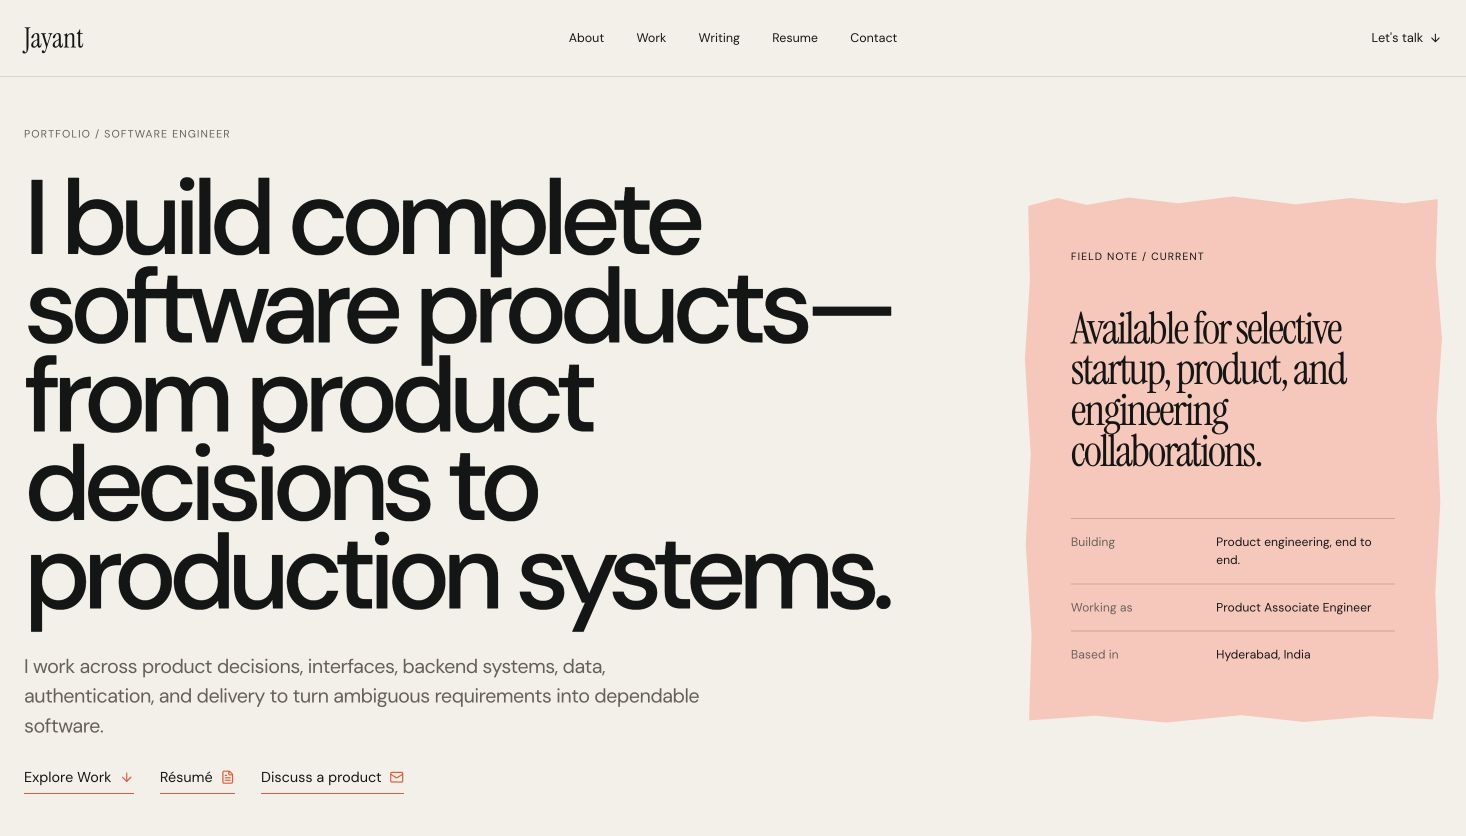
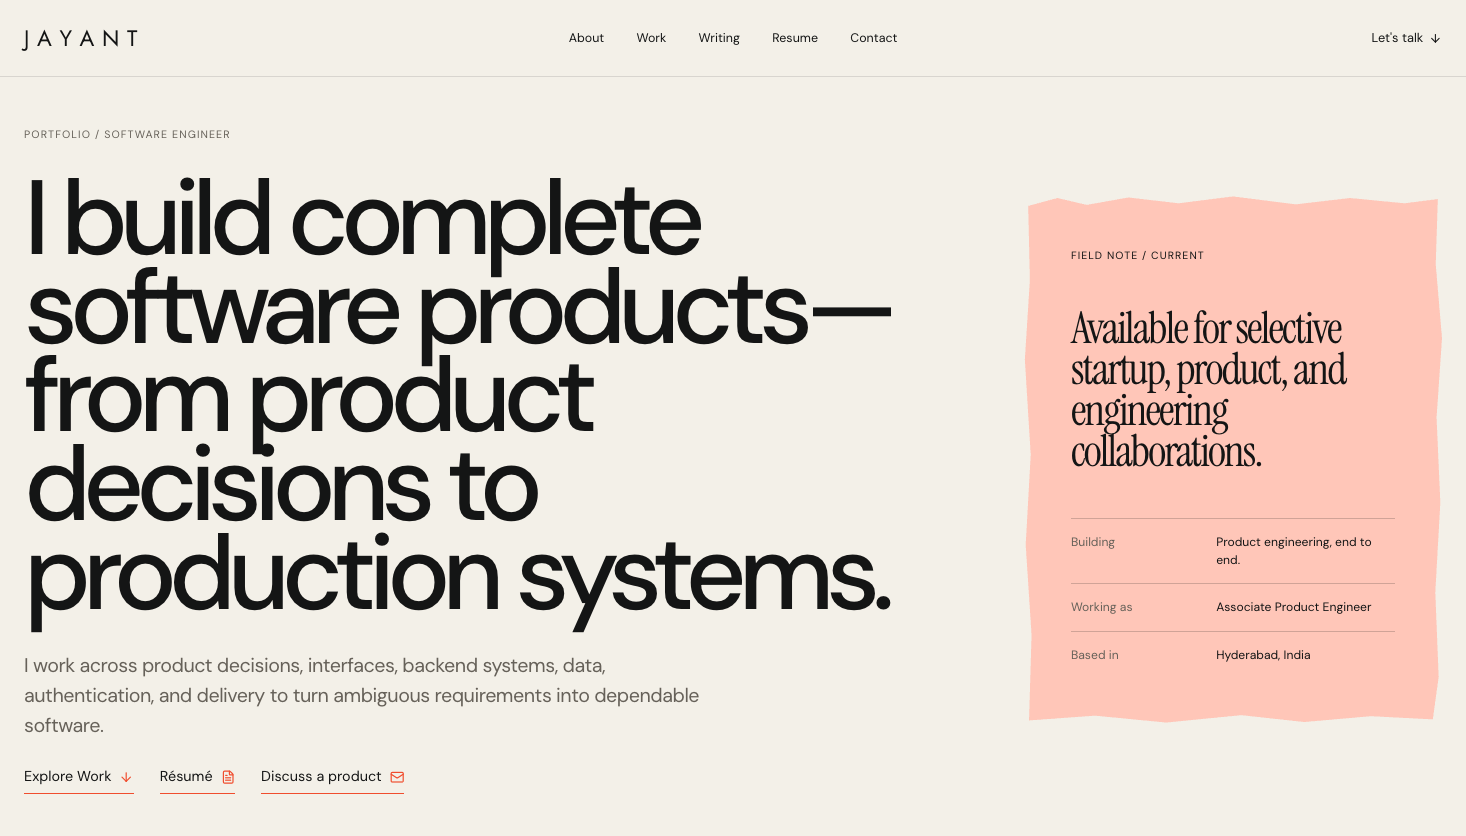
fix(seo): use app screenshots for link previews
Serve Auth landing metadata without redirecting anonymous preview crawlers, while preserving noindex policies for security-sensitive routes. Centralize 1200x630 screenshot previews for Portfolio, Studio, Admin, and Auth.

diff --git a/apps/auth/src/app/layout.tsx b/apps/auth/src/app/layout.tsx
@@ -3,11 +3,17 @@ import "./globals.css";
 import type { Metadata, Viewport } from "next";
 import { IBM_Plex_Mono, Instrument_Serif, Manrope } from "next/font/google";
 
-import { APP_BRANDS, BRAND_ASSET_PATHS, PERSON_BRAND } from "@repo/brand";
+import {
+  APP_BRANDS,
+  APP_SOCIAL_PREVIEW_IMAGES,
+  BRAND_ASSET_PATHS,
+  PERSON_BRAND,
+} from "@repo/brand";
 import { Toaster } from "@repo/ui/sonner";
 import { ThemeProvider } from "@repo/ui/theme-provider";
 
 const AUTH_BRAND = APP_BRANDS.auth;
+const AUTH_PREVIEW = APP_SOCIAL_PREVIEW_IMAGES.auth;
 
 const manrope = Manrope({
   subsets: ["latin"],
@@ -40,28 +46,21 @@ export const metadata: Metadata = {
   authors: [{ name: PERSON_BRAND.fullName, url: PERSON_BRAND.canonicalUrl }],
   creator: PERSON_BRAND.fullName,
   keywords: ["secure sign in", "account security", "Jayant"],
-  alternates: { canonical: "/welcome" },
+  alternates: { canonical: "/" },
   openGraph: {
     type: "website",
     locale: "en_US",
-    url: "/welcome",
+    url: "/",
     siteName: PERSON_BRAND.fullName,
     title: AUTH_BRAND.defaultTitle,
     description: AUTH_BRAND.description,
-    images: [
-      {
-        url: "/assets/auth-welcome-art.png",
-        width: 1122,
-        height: 1402,
-        alt: "Abstract folded paper sculpture on a dark architectural plinth",
-      },
-    ],
+    images: [AUTH_PREVIEW],
   },
   twitter: {
     card: "summary_large_image",
     title: AUTH_BRAND.defaultTitle,
     description: AUTH_BRAND.description,
-    images: ["/assets/auth-welcome-art.png"],
+    images: [AUTH_PREVIEW.url],
   },
   icons: {
     icon: [

diff --git a/apps/admin/src/app/layout.tsx b/apps/admin/src/app/layout.tsx
@@ -1,11 +1,17 @@
 import "./globals.css";
 import type { Metadata } from "next";
 import { IBM_Plex_Mono, Manrope } from "next/font/google";
-import { APP_BRANDS, BRAND_ASSET_PATHS } from "@repo/brand";
+import {
+  APP_BRANDS,
+  APP_SOCIAL_PREVIEW_IMAGES,
+  BRAND_ASSET_PATHS,
+  PERSON_BRAND,
+} from "@repo/brand";
 import { ThemeProvider } from "@repo/ui/theme-provider";
 import { Toaster } from "@repo/ui/sonner";
 
 const ADMIN_BRAND = APP_BRANDS.admin;
+const ADMIN_PREVIEW = APP_SOCIAL_PREVIEW_IMAGES.admin;
 
 const manrope = Manrope({
   subsets: ["latin"],
@@ -21,11 +27,31 @@ const ibmPlexMono = IBM_Plex_Mono({
 });
 
 export const metadata: Metadata = {
+  metadataBase: new URL(ADMIN_BRAND.canonicalUrl),
   title: {
     default: ADMIN_BRAND.defaultTitle,
     template: ADMIN_BRAND.titleTemplate,
   },
   description: ADMIN_BRAND.description,
+  applicationName: ADMIN_BRAND.publicName,
+  authors: [{ name: PERSON_BRAND.fullName, url: PERSON_BRAND.canonicalUrl }],
+  creator: PERSON_BRAND.fullName,
+  alternates: { canonical: "/" },
+  openGraph: {
+    type: "website",
+    locale: "en_US",
+    url: "/",
+    siteName: PERSON_BRAND.fullName,
+    title: ADMIN_BRAND.defaultTitle,
+    description: ADMIN_BRAND.description,
+    images: [ADMIN_PREVIEW],
+  },
+  twitter: {
+    card: "summary_large_image",
+    title: ADMIN_BRAND.defaultTitle,
+    description: ADMIN_BRAND.description,
+    images: [ADMIN_PREVIEW.url],
+  },
   robots: {
     index: false,
     follow: false,

diff --git a/packages/brand/src/index.ts b/packages/brand/src/index.ts
@@ -46,6 +46,39 @@ export const APP_BRANDS = {
   },
 } as const;
 
+const SOCIAL_PREVIEW_VERSION = "20260727";
+
+export const APP_SOCIAL_PREVIEW_IMAGES = {
+  portfolio: {
+    url: `${PERSON_BRAND.canonicalUrl}/images/social/portfolio-preview.jpg?v=${SOCIAL_PREVIEW_VERSION}`,
+    width: 1200,
+    height: 630,
+    type: "image/jpeg",
+    alt: `${PERSON_BRAND.fullName}'s Software Engineer portfolio`,
+  },
+  studio: {
+    url: `${PERSON_BRAND.canonicalUrl}/images/social/studio-preview.jpg?v=${SOCIAL_PREVIEW_VERSION}`,
+    width: 1200,
+    height: 630,
+    type: "image/jpeg",
+    alt: `Studio apps, tools, and experiments by ${PERSON_BRAND.fullName}`,
+  },
+  admin: {
+    url: `${PERSON_BRAND.canonicalUrl}/images/social/admin-preview.jpg?v=${SOCIAL_PREVIEW_VERSION}`,
+    width: 1200,
+    height: 630,
+    type: "image/jpeg",
+    alt: `Admin content management system by ${PERSON_BRAND.fullName}`,
+  },
+  auth: {
+    url: `${PERSON_BRAND.canonicalUrl}/images/social/auth-preview.jpg?v=${SOCIAL_PREVIEW_VERSION}`,
+    width: 1200,
+    height: 630,
+    type: "image/jpeg",
+    alt: `Auth account security application by ${PERSON_BRAND.fullName}`,
+  },
+} as const;
+
 export type AppBrandId = keyof typeof APP_BRANDS;
 export type AppBrand = (typeof APP_BRANDS)[AppBrandId];
 

diff --git a/apps/studio/src/lib/seo/config.ts b/apps/studio/src/lib/seo/config.ts
@@ -1,6 +1,10 @@
 import type { Metadata } from "next";
 
-import { APP_BRANDS, PERSON_BRAND } from "@repo/brand";
+import {
+  APP_BRANDS,
+  APP_SOCIAL_PREVIEW_IMAGES,
+  PERSON_BRAND,
+} from "@repo/brand";
 import {
   buildPublicPageMetadata as buildSharedPageMetadata,
   isCanonicalApplicationHost,
@@ -19,7 +23,8 @@ export const SITE_NAME = STUDIO_BRAND.publicName;
 export const SITE_TITLE = STUDIO_BRAND.defaultTitle;
 export const SITE_TITLE_TEMPLATE = STUDIO_BRAND.titleTemplate;
 export const SITE_DESCRIPTION = STUDIO_BRAND.description;
-export const DEFAULT_OG_IMAGE = `${SITE_URL}/opengraph-image?v=6`;
+export const DEFAULT_OG_IMAGE = APP_SOCIAL_PREVIEW_IMAGES.studio.url;
+export const DEFAULT_OG_IMAGE_METADATA = APP_SOCIAL_PREVIEW_IMAGES.studio;
 export const LAST_SIGNIFICANT_UPDATE = "2026-07-17T00:00:00.000Z";
 
 const INDEXABLE_EXACT_PATHS = ["/", "/terms-conditions"] as const;
@@ -66,9 +71,9 @@ export function buildPublicPageMetadata({
     pathname,
     image: DEFAULT_OG_IMAGE,
     imageMetadata: {
-      width: 1200,
-      height: 630,
-      type: "image/png",
+      width: DEFAULT_OG_IMAGE_METADATA.width,
+      height: DEFAULT_OG_IMAGE_METADATA.height,
+      type: DEFAULT_OG_IMAGE_METADATA.type,
     },
   });
 }

diff --git a/apps/portfolio/src/lib/seo/config.ts b/apps/portfolio/src/lib/seo/config.ts
@@ -1,6 +1,10 @@
 import type { Metadata } from "next";
 
-import { APP_BRANDS, PERSON_BRAND } from "@repo/brand";
+import {
+  APP_BRANDS,
+  APP_SOCIAL_PREVIEW_IMAGES,
+  PERSON_BRAND,
+} from "@repo/brand";
 import { applicationOrigin, isApplicationHost } from "@repo/platform";
 import { buildPublicPageMetadata as buildSharedPageMetadata } from "@repo/seo";
 
@@ -12,7 +16,8 @@ export const SITE_URL = applicationOrigin(
 export const PERSON_NAME = PERSON_BRAND.fullName;
 export const SITE_NAME = PORTFOLIO_BRAND.publicName;
 export const SITE_TITLE_TEMPLATE = PORTFOLIO_BRAND.titleTemplate;
-export const DEFAULT_OG_IMAGE = `${SITE_URL}/opengraph-image`;
+export const DEFAULT_OG_IMAGE = APP_SOCIAL_PREVIEW_IMAGES.portfolio.url;
+export const DEFAULT_OG_IMAGE_METADATA = APP_SOCIAL_PREVIEW_IMAGES.portfolio;
 export const LAST_SIGNIFICANT_UPDATE = "2026-07-24T00:00:00.000Z";
 
 export function buildPublicPageMetadata({
@@ -31,6 +36,11 @@ export function buildPublicPageMetadata({
     description,
     pathname,
     image: DEFAULT_OG_IMAGE,
+    imageMetadata: {
+      width: DEFAULT_OG_IMAGE_METADATA.width,
+      height: DEFAULT_OG_IMAGE_METADATA.height,
+      type: DEFAULT_OG_IMAGE_METADATA.type,
+    },
   });
 }
 

diff --git a/apps/auth/src/auth-contract.test.ts b/apps/auth/src/auth-contract.test.ts
@@ -171,4 +171,26 @@ describe("standalone Auth application contract", () => {
     expect(configuration).not.toContain("googletagmanager");
     expect(configuration).not.toContain("google-analytics");
   });
+
+  it("serves public landing previews without indexing security routes", () => {
+    const homePage = readFileSync(`${sourceRoot}/app/page.tsx`, "utf8");
+    const configuration = readFileSync(`${appRoot}/next.config.ts`, "utf8");
+    const robots = readFileSync(`${sourceRoot}/app/robots.ts`, "utf8");
+
+    expect(homePage).toContain('if (user) redirect("/account/security")');
+    expect(homePage).toContain("<AuthWelcomeShell>");
+    expect(homePage).toContain("<WelcomeForm");
+    expect(configuration).toContain(
+      '{ key: "X-Robots-Tag", value: "index, follow" }',
+    );
+    expect(configuration).toContain(
+      '{ source: "/", headers: publicPreviewHeaders }',
+    );
+    expect(configuration).toContain(
+      '{ source: "/welcome", headers: publicPreviewHeaders }',
+    );
+    expect(robots).toContain('allow: ["/", "/welcome"]');
+    expect(robots).toContain('"/account/"');
+    expect(robots).toContain('"/callback"');
+  });
 });

diff --git a/packages/brand/src/index.test.ts b/packages/brand/src/index.test.ts
@@ -1,6 +1,11 @@
 import { describe, expect, it } from "vitest";
 
-import { APP_BRANDS, formatAppPageTitle, PERSON_BRAND } from "./index";
+import {
+  APP_BRANDS,
+  APP_SOCIAL_PREVIEW_IMAGES,
+  formatAppPageTitle,
+  PERSON_BRAND,
+} from "./index";
 
 describe("canonical platform branding", () => {
   it("uses the full public identity in app-level metadata", () => {
@@ -41,5 +46,16 @@ describe("canonical platform branding", () => {
     expect(APP_BRANDS.auth.titleTemplate).toBe("%s | Auth");
     expect(formatAppPageTitle("studio", "Weather")).not.toContain(" by ");
     expect(formatAppPageTitle("admin", "Deployments")).not.toContain(" by ");
+  });
+
+  it("uses canonical screenshot crops for application link previews", () => {
+    for (const preview of Object.values(APP_SOCIAL_PREVIEW_IMAGES)) {
+      expect(preview.url).toMatch(
+        /^https:\/\/jayantgoyal\.com\/images\/social\/.+-preview\.jpg\?v=\d+$/,
+      );
+      expect(preview.width).toBe(1200);
+      expect(preview.height).toBe(630);
+      expect(preview.type).toBe("image/jpeg");
+    }
   });
 });

diff --git a/apps/auth/src/lib/seo/metadata.ts b/apps/auth/src/lib/seo/metadata.ts
@@ -1,0 +1,31 @@
+import type { Metadata } from "next";
+
+import { APP_BRANDS, APP_SOCIAL_PREVIEW_IMAGES } from "@repo/brand";
+
+const AUTH_BRAND = APP_BRANDS.auth;
+const AUTH_PREVIEW = APP_SOCIAL_PREVIEW_IMAGES.auth;
+
+export function buildAuthLandingMetadata(pathname: "/" | "/welcome"): Metadata {
+  const canonical = new URL(pathname, AUTH_BRAND.canonicalUrl).toString();
+
+  return {
+    title: { absolute: AUTH_BRAND.defaultTitle },
+    description: AUTH_BRAND.description,
+    alternates: { canonical },
+    openGraph: {
+      type: "website",
+      locale: "en_US",
+      url: canonical,
+      title: AUTH_BRAND.defaultTitle,
+      description: AUTH_BRAND.description,
+      images: [AUTH_PREVIEW],
+    },
+    twitter: {
+      card: "summary_large_image",
+      title: AUTH_BRAND.defaultTitle,
+      description: AUTH_BRAND.description,
+      images: [AUTH_PREVIEW.url],
+    },
+    robots: { index: true, follow: true },
+  };
+}

diff --git a/apps/auth/src/app/welcome/page.tsx b/apps/auth/src/app/welcome/page.tsx
@@ -3,12 +3,9 @@ import type { Metadata } from "next";
 import { AuthWelcomeShell } from "@/components/auth/auth-welcome-shell";
 import { WelcomeForm } from "@/components/auth/welcome-form";
 import { resolveAuthReturnTarget } from "@/lib/auth/returns";
+import { buildAuthLandingMetadata } from "@/lib/seo/metadata";
 
-export const metadata: Metadata = {
-  title: "Welcome",
-  description:
-    "Secure access to Jayant's Studio, Admin, and connected workspaces.",
-};
+export const metadata: Metadata = buildAuthLandingMetadata("/welcome");
 
 export default async function WelcomePage({
   searchParams,
@@ -19,9 +16,7 @@ export default async function WelcomePage({
   }>;
 }) {
   const params = await searchParams;
-  const returnTo = resolveAuthReturnTarget(
-    params.return_to ?? params.redirect,
-  );
+  const returnTo = resolveAuthReturnTarget(params.return_to ?? params.redirect);
 
   return (
     <AuthWelcomeShell>

diff --git a/apps/portfolio/src/app/page.tsx b/apps/portfolio/src/app/page.tsx
@@ -3,7 +3,7 @@ import type { Metadata } from "next";
 import { PortfolioExperience } from "@/components/editorial/portfolio-experience";
 import { getPublishedWritingPreviews } from "@/lib/writing/editorial-queries";
 import { getEditorialPortfolioData } from "@/lib/portfolio/editorial-server";
-import { DEFAULT_OG_IMAGE } from "@/lib/seo/config";
+import { DEFAULT_OG_IMAGE, DEFAULT_OG_IMAGE_METADATA } from "@/lib/seo/config";
 
 export const dynamic = "force-dynamic";
 
@@ -21,9 +21,10 @@ export async function generateMetadata(): Promise<Metadata> {
       images: [
         {
           url: DEFAULT_OG_IMAGE,
-          width: 1200,
-          height: 630,
-          alt: profile.seoTitle,
+          width: DEFAULT_OG_IMAGE_METADATA.width,
+          height: DEFAULT_OG_IMAGE_METADATA.height,
+          type: DEFAULT_OG_IMAGE_METADATA.type,
+          alt: DEFAULT_OG_IMAGE_METADATA.alt,
         },
       ],
     },

diff --git a/apps/auth/src/app/page.tsx b/apps/auth/src/app/page.tsx
@@ -1,13 +1,25 @@
+import type { Metadata } from "next";
 import { redirect } from "next/navigation";
 
+import { AuthWelcomeShell } from "@/components/auth/auth-welcome-shell";
+import { WelcomeForm } from "@/components/auth/welcome-form";
+import { buildAuthLandingMetadata } from "@/lib/seo/metadata";
 import { createSupabaseServerClient } from "@/lib/supabase/server";
 
 export const dynamic = "force-dynamic";
+export const metadata: Metadata = buildAuthLandingMetadata("/");
 
 export default async function HomePage() {
   const supabase = await createSupabaseServerClient();
   const {
     data: { user },
   } = await supabase.auth.getUser();
-  redirect(user ? "/account/security" : "/welcome");
+
+  if (user) redirect("/account/security");
+
+  return (
+    <AuthWelcomeShell>
+      <WelcomeForm returnTo="/account/security" />
+    </AuthWelcomeShell>
+  );
 }

diff --git a/apps/portfolio/src/app/layout.tsx b/apps/portfolio/src/app/layout.tsx
@@ -11,6 +11,7 @@ import { PortfolioAnalytics } from "@/components/editorial/portfolio-analytics";
 import { getPortfolioShellData } from "@/lib/portfolio/editorial-server";
 import {
   DEFAULT_OG_IMAGE,
+  DEFAULT_OG_IMAGE_METADATA,
   isCanonicalProductionHost,
   SITE_NAME,
   SITE_TITLE_TEMPLATE,
@@ -71,9 +72,10 @@ export async function generateMetadata(): Promise<Metadata> {
       images: [
         {
           url: DEFAULT_OG_IMAGE,
-          width: 1200,
-          height: 630,
-          alt: profile.seoTitle,
+          width: DEFAULT_OG_IMAGE_METADATA.width,
+          height: DEFAULT_OG_IMAGE_METADATA.height,
+          type: DEFAULT_OG_IMAGE_METADATA.type,
+          alt: DEFAULT_OG_IMAGE_METADATA.alt,
         },
       ],
     },
